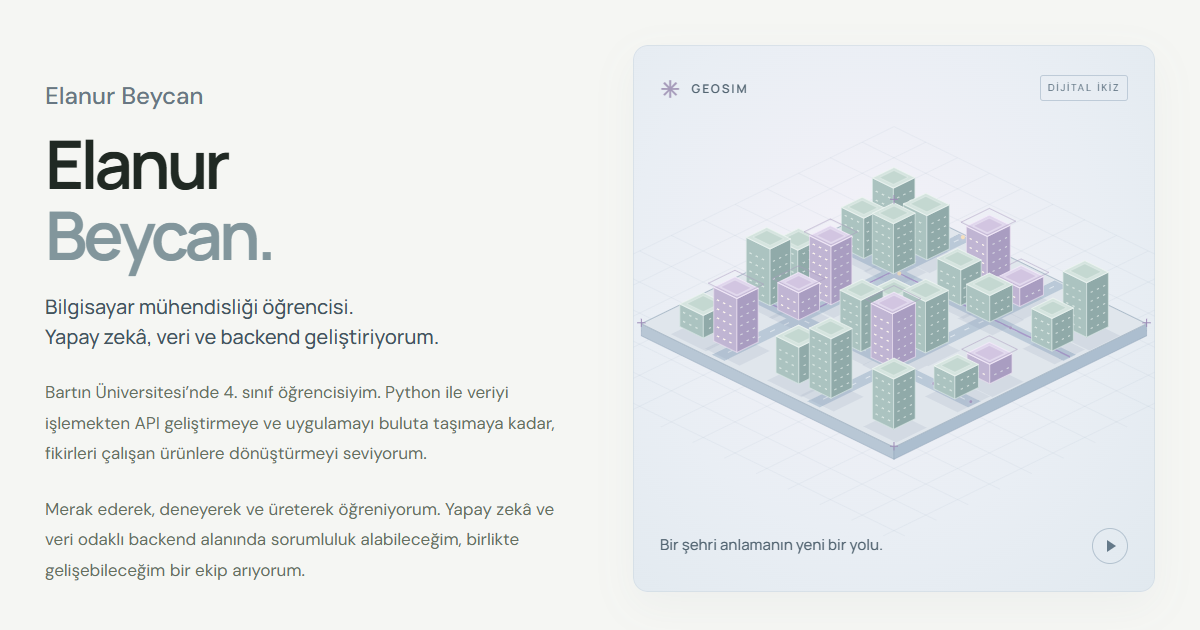
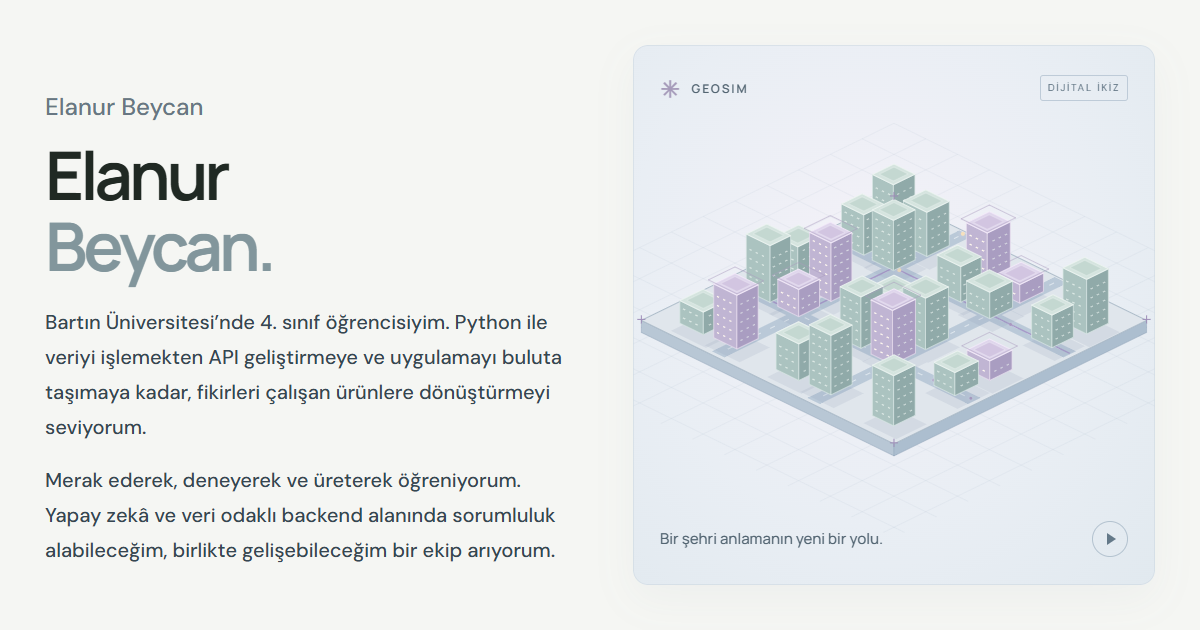
Simplify hero introduction and increase paragraph readability

diff --git a/index.html b/index.html
@@ -17,7 +17,7 @@
 <main id="main">
 <section class="hero container" id="home" aria-labelledby="hero-title"><div class="hero-copy">
 <p class="availability"><span aria-hidden="true"></span><span data-i18n="availability">Staj & junior fırsatlarına açık</span></p><p class="hello" data-i18n="hello">Merhaba, ben</p>
-<h1 id="hero-title"><span data-i18n="hero1">Elanur</span><br><span class="accent-word" data-i18n="hero2">Beycan.</span></h1><p class="hero-role" data-i18n="heroRole">Bilgisayar mühendisliği öğrencisi.<br>Yapay zekâ, veri ve backend geliştiriyorum.</p>
+<h1 id="hero-title"><span data-i18n="hero1">Elanur</span><br><span class="accent-word" data-i18n="hero2">Beycan.</span></h1>
 <p class="hero-description" data-i18n="heroDescription">Bartın Üniversitesi’nde 4. sınıf öğrencisiyim. Python ile veriyi işlemekten API geliştirmeye ve uygulamayı buluta taşımaya kadar, fikirleri çalışan ürünlere dönüştürmeyi seviyorum.</p><p class="hero-description hero-personal" data-i18n="heroPersonal">Merak ederek, deneyerek ve üreterek öğreniyorum. Yapay zekâ ve veri odaklı backend alanında sorumluluk alabileceğim, birlikte gelişebileceğim bir ekip arıyorum.</p>
 <div class="hero-actions"><a href="#projects" class="button button-dark" data-i18n="viewProjects">Projelerimi keşfet</a><a href="Elanur_Beycan_CV.pdf" class="button button-outline" target="_blank" rel="noopener" data-i18n="viewCV">CV’mi incele</a></div>
 <div class="hero-footnote"><span data-i18n="heroDegree">Beklenen mezuniyet: Temmuz 2027</span><span data-i18n="languageFact">Türkçe (ana dil) · İngilizce (B1)</span><span class="location"><svg width="14" height="16" viewBox="0 0 14 16" fill="none" stroke="currentColor" stroke-width="1.4" aria-hidden="true"><path d="M12 6c0 4-5 8-5 8S2 10 2 6a5 5 0 0 1 10 0Z"/><circle cx="7" cy="6" r="1.7"/></svg><span data-i18n="location">İstanbul, Türkiye</span></span></div>

diff --git a/style.css b/style.css
@@ -73,3 +73,7 @@ html{scroll-padding-top:88px}.container{width:calc(100% - 40px)}.site-header{hei
 .hero h1{font-size:clamp(58px,5.6vw,82px);letter-spacing:-4px;line-height:1.06}.hero .accent-word{color:#82969c}.hero .hello{margin-top:25px;margin-bottom:12px;color:#687783}.hero-role{font-family:Manrope,sans-serif;font-size:20px;line-height:1.5;color:#43545e;margin-top:22px;font-weight:500}.hero-description{margin-top:18px;font-size:16px;line-height:1.8;max-width:535px}.hero-personal{margin-top:12px}.hero-footnote{margin-top:25px}.hero-art{background:radial-gradient(ellipse at 45% 40%,#f3f1f8 0,#e9eef4 58%,#e1e9ef 100%);color:#435461;box-shadow:0 14px 40px #637b8d0d}.hero-art:after{border-color:#cad5df88}.art-wordmark{color:#536572}.mini-cross{color:#a59ab9}.art-tag{color:#687b89;border-color:#becbd8}.map-label{background:#fbfcfded;border-color:#fff;color:#51616e;box-shadow:0 7px 25px #647c9412}.label-icon{color:#a69bb8}.map-label div>span{color:#748392}.art-caption{color:#536572}.art-note{color:#738391}.motion-button{border-color:#b3c2cf;color:#647989}.motion-button:hover{background:#d2dce899}
 @media(max-width:900px){.hero h1{font-size:60px}.hero-role{font-size:18px}.hero{gap:30px}.hero-art{min-height:620px}}
 @media(max-width:680px){.hero h1{font-size:64px;letter-spacing:-3px}.hero-role{font-size:19px}.hero-art{min-height:445px}.hero-description{max-width:100%}.hero .hello{margin-top:24px}.hero-footnote{font-size:12px}}
+
+/* Larger, clearer introduction paragraphs. */
+.hero .hero-description{font-size:1.25rem;font-weight:500;color:#364751;line-height:1.75;margin-top:24px}.hero .hero-personal{margin-top:18px}
+@media(max-width:680px){.hero .hero-description{font-size:1.125rem;line-height:1.75}}
